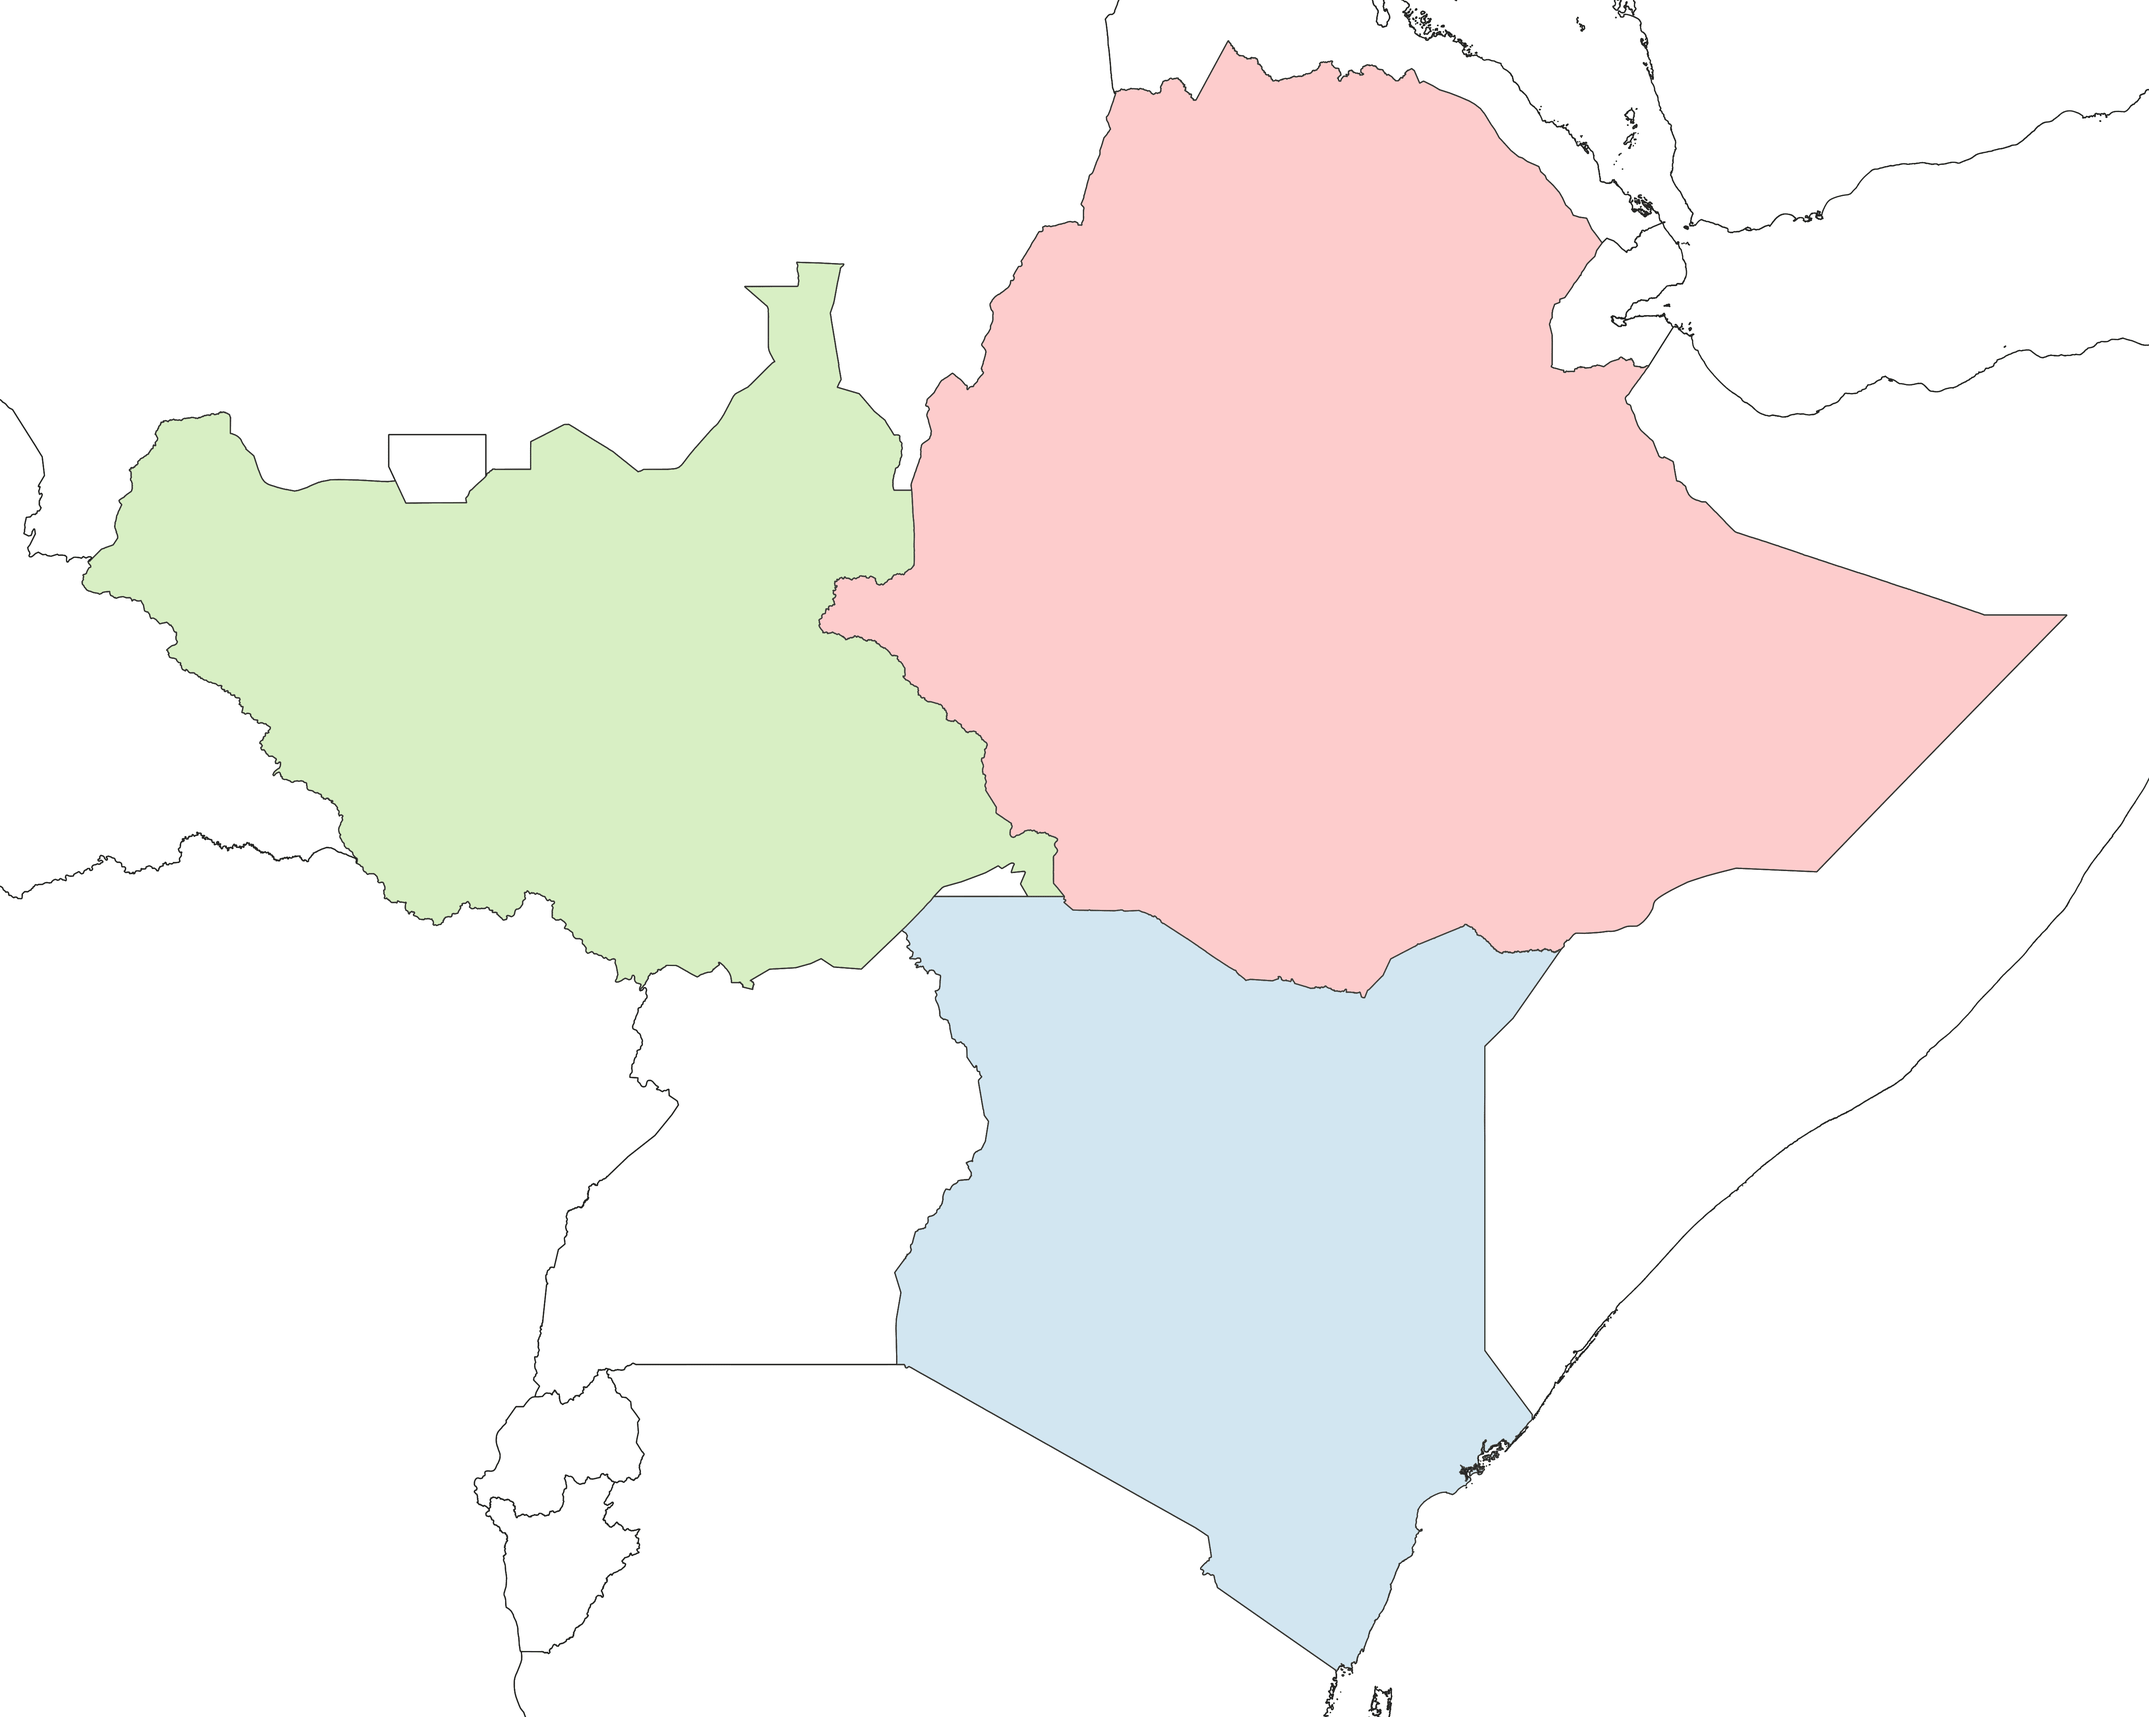
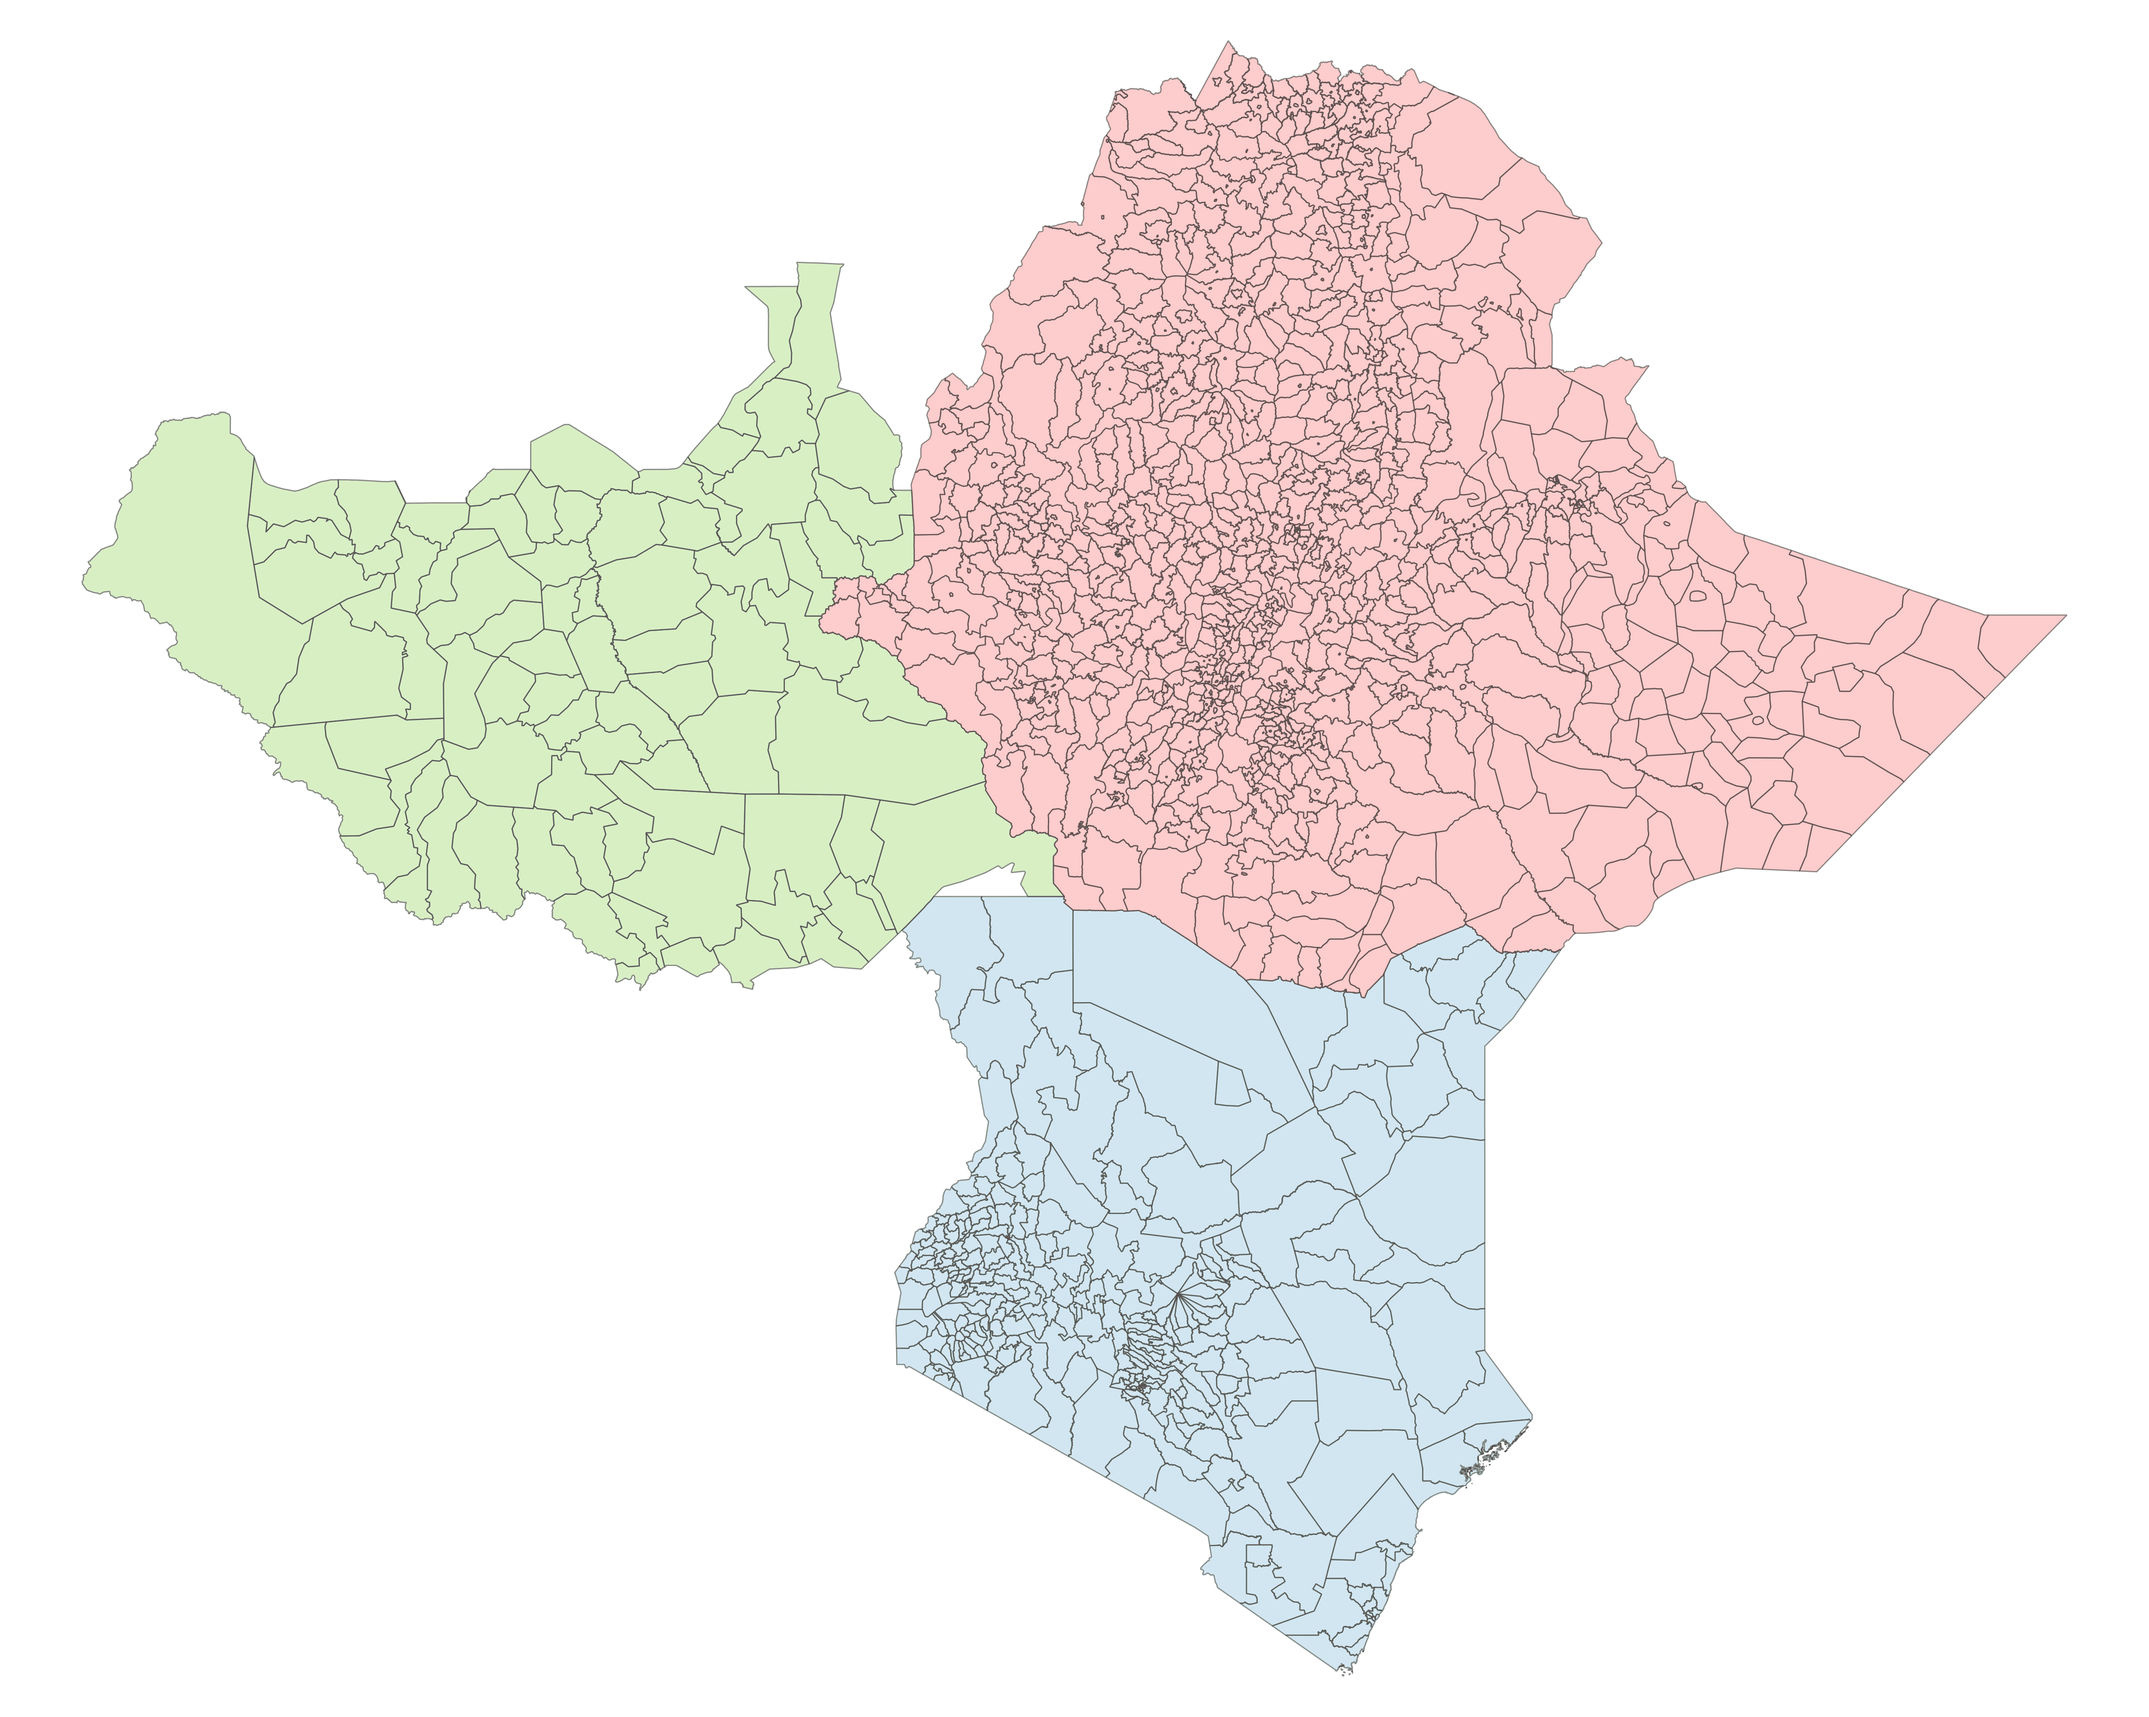
clean voronoi after generating

diff --git a/processing/voronoi.py b/processing/voronoi.py
@@ -26,6 +26,16 @@ def main(name, *args):
         DROP TABLE IF EXISTS {table_out};
         CREATE TABLE {table_out} AS
         SELECT
+            (ST_Dump(
+                ST_CollectionExtract(ST_MakeValid(geom), 3)
+            )).geom::GEOMETRY(Polygon, 4326) as geom
+        FROM {table_in};
+        CREATE INDEX ON {table_out} USING GIST(geom);
+    """
+    query_3 = """
+        DROP TABLE IF EXISTS {table_out};
+        CREATE TABLE {table_out} AS
+        SELECT
             a.id,
             ST_Multi(
                 ST_Union(b.geom)
@@ -38,18 +48,24 @@ def main(name, *args):
     """
     drop_tmp = """
         DROP TABLE IF EXISTS {table_tmp1};
+        DROP TABLE IF EXISTS {table_tmp2};
     """
     cur.execute(SQL(query_1).format(
         table_in=Identifier(f'{name}_02'),
         table_out=Identifier(f'{name}_tmp1'),
     ))
     cur.execute(SQL(query_2).format(
+        table_in=Identifier(f'{name}_tmp1'),
+        table_out=Identifier(f'{name}_tmp2'),
+    ))
+    cur.execute(SQL(query_3).format(
         table_in1=Identifier(f'{name}_02'),
-        table_in2=Identifier(f'{name}_tmp1'),
+        table_in2=Identifier(f'{name}_tmp2'),
         table_out=Identifier(f'{name}_03'),
     ))
     cur.execute(SQL(drop_tmp).format(
         table_tmp1=Identifier(f'{name}_tmp1'),
+        table_tmp2=Identifier(f'{name}_tmp2'),
     ))
     con.commit()
     cur.close()

diff --git a/README.md b/README.md
@@ -14,10 +14,10 @@ There are three user configurable variables defined in `config.ini`. The first i
 
 The overall processing can be broken down into 4 distinct types of geometry transformations:
 
-- polygon to lines
-- lines to points
-- points to voronoi
-- merge polygon with voronoi
+- make lines from polygons
+- make points from lines
+- make voronoi from points
+- merge polygons with voronoi
 
 ### Polygon to Line
 
@@ -27,19 +27,19 @@ The first part extracts outlines from the polygon, first by dissolving all polyg
 | :-----------------: | :-----------------: |
 | ![](img/tza_01.png) | ![](img/tza_02.png) |
 
-### Lines to Points
+Line to Point:
 
 | Points along River  |    Final result     |
 | :-----------------: | :-----------------: |
 | ![](img/tza_03.png) | ![](img/tza_04.png) |
 
-### Points to Voronoi
+Point to Voronoi:
 
 | Points with Voronoi |    Voronoi Only     |
 | :-----------------: | :-----------------: |
 | ![](img/tza_05.png) | ![](img/tza_06.png) |
 
-### Merge Polygon with Voronoi
+Polygon-Voronoi Merge:
 
 | Original over Voronoi |   Dissolved Layer   |
 | :-------------------: | :-----------------: |
@@ -50,6 +50,20 @@ The first part extracts outlines from the polygon, first by dissolving all polyg
 |  ADM0 over Voronoi  | Original vs ADM0 edges |
 | :-----------------: | :--------------------: |
 | ![](img/tza_09.png) |  ![](img/tza_10.png)   |
+
+## Use Case 2: Topologically clean international boundaries
+
+| Topologically clean ADM0 layer |
+| :----------------------------: |
+|      ![](img/tri_00.png)       |
+
+| Original boundaries | Clipped voronoi boundaries |
+| :-----------------: | :------------------------: |
+| ![](img/tri_01.png) |    ![](img/tri_02.png)     |
+
+| Original boundaries | Clipped voronoi boundaries |
+| :-----------------: | :------------------------: |
+| ![](img/tri_03.png) |    ![](img/tri_04.png)     |
 
 ## Known Issues
 
